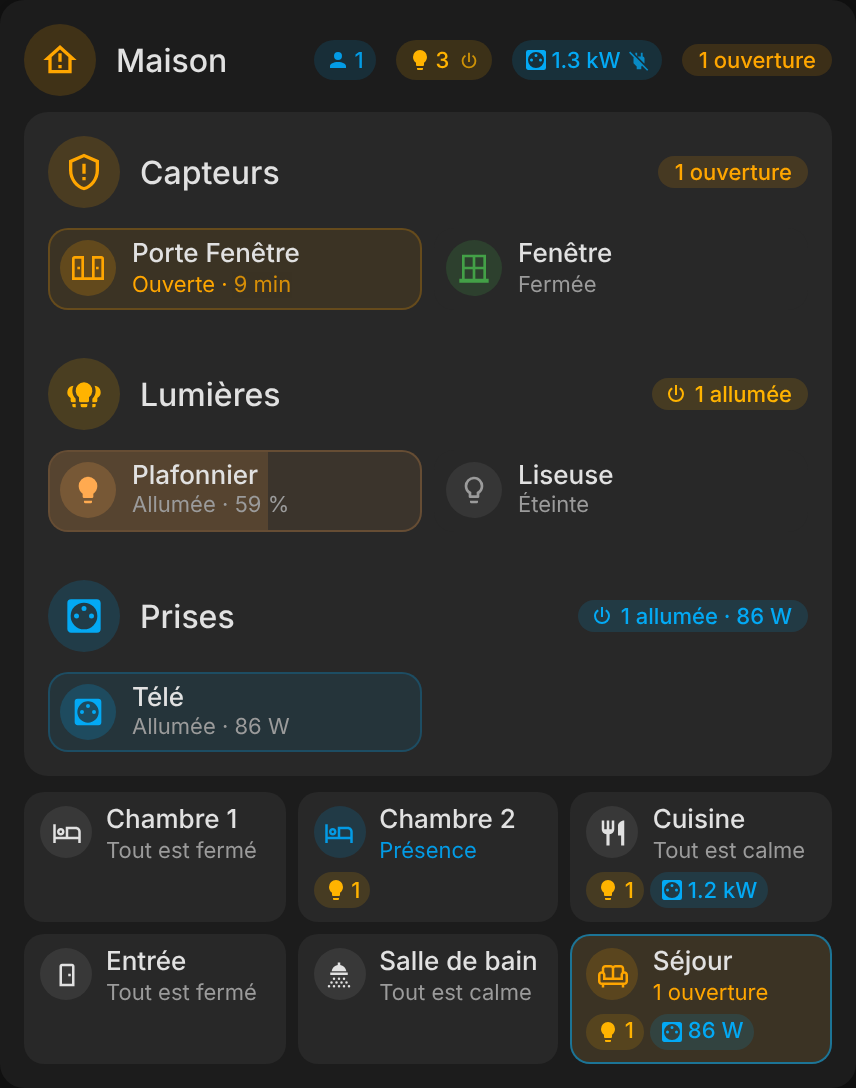
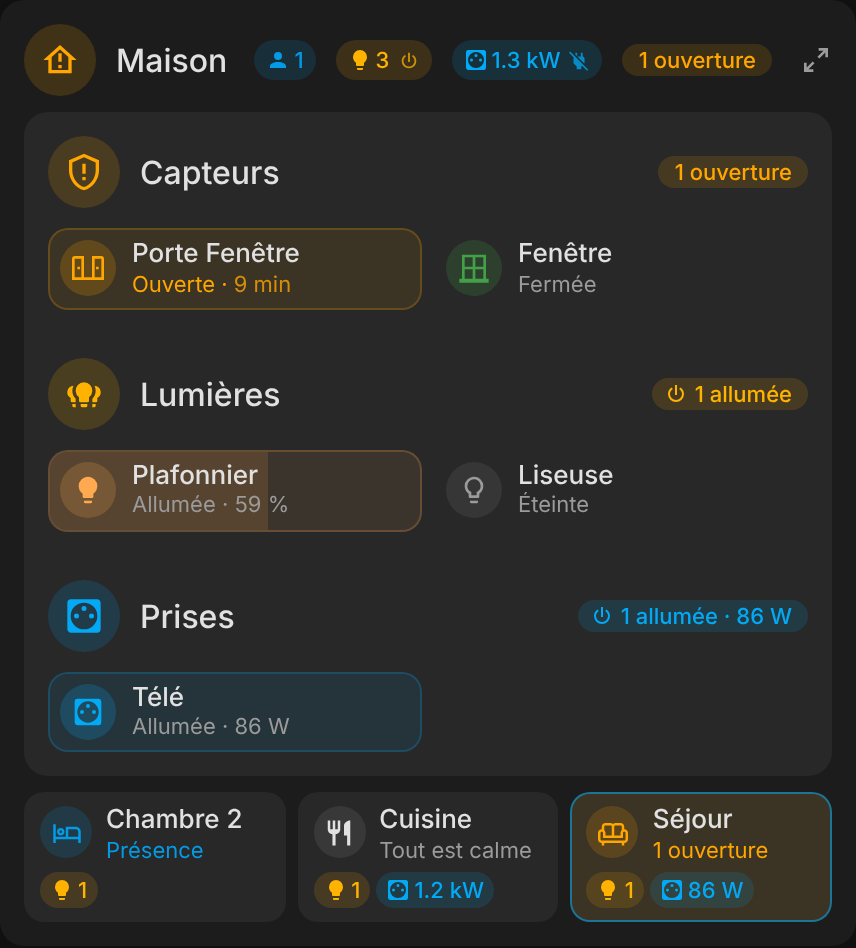
Overviews: rooms needing attention by default, detail button for all (1.12.0) (#14)
## Summary

Both overviews (`room-overview-card`, `room-environment-overview-card`)
now only show the **rooms needing attention**, with a **detail button**
(top right, same icon as the mini cards) to show every room and back.

- Overview: rooms with something open, on or detected; Environment
overview: rooms with a reading out of the comfort range
- `zoom` (default `true`); `zoom: false` shows every room, always, with
no button (also in the visual editors)
- `only_active` (Overview) and `only_alerts` (Environment overview)
removed: the default view does what they did; ignored if left in YAML
- An unfolded room stays visible while it is open; Environment overview
averages always count every room
- Shared: `rcCompact`, `rcZoomButton`, `rcZoomClick`, `RC_ZOOM_STYLES`
in `shared.js`

| Overview: active rooms | Overview: every room |
|---|---|
|
![](https://raw.githubusercontent.com/juju35/ha-room-card/feat/env-overview-zoom/screenshots/overview-active.png)
|
![](https://raw.githubusercontent.com/juju35/ha-room-card/feat/env-overview-zoom/screenshots/overview-all.png)
|

| Environment: rooms to check | Environment: every room |
|---|---|
|
![](https://raw.githubusercontent.com/juju35/ha-room-card/feat/env-overview-zoom/screenshots/environment-overview-check-dark.png)
|
![](https://raw.githubusercontent.com/juju35/ha-room-card/feat/env-overview-zoom/screenshots/environment-overview-all.png)
|

Version **1.12.0**, CHANGELOG and README updated.

## Test plan
[…]

diff --git a/src/room-overview-card.js b/src/room-overview-card.js
@@ -31,8 +31,8 @@ const RO_I18N = {
     ed_columns_helper: "Empty: 3, or 2 on narrow screens",
     ed_presence: "Include presence sensors",
     ed_presence_helper: "Presence and motion sensors, cameras excluded",
-    ed_only_active: "Hide idle rooms",
-    ed_only_active_helper: "Only rooms with something open, on or detected stay visible",
+    ed_zoom: "Detail button",
+    ed_zoom_helper: "Only the rooms with something open, on or detected show; the button shows every room. Off: every room, always",
     ed_all_off_button: "“Turn all lights off” button",
     ed_all_off_button_helper: "Tapping the lights chip of the header turns every light the card counts off",
     ed_plugs_off_button: "“Turn all plugs off” button",
@@ -69,8 +69,8 @@ const RO_I18N = {
     ed_columns_helper: "Vide : 3, ou 2 sur les écrans étroits",
     ed_presence: "Inclure les capteurs de présence",
     ed_presence_helper: "Capteurs de présence et de mouvement, hors caméras",
-    ed_only_active: "Masquer les pièces au repos",
-    ed_only_active_helper: "Seules les pièces avec quelque chose d'ouvert, d'allumé ou de détecté restent affichées",
+    ed_zoom: "Bouton détail",
+    ed_zoom_helper: "Seules les pièces avec quelque chose d'ouvert, d'allumé ou de détecté s'affichent ; le bouton affiche toutes les pièces. Désactivé : toujours toutes les pièces",
     ed_all_off_button: "Bouton « Éteindre toutes les lumières »",
     ed_all_off_button_helper: "Un tap sur la pastille des lumières de l'en-tête éteint toutes les lumières comptées par la carte",
     ed_plugs_off_button: "Bouton « Éteindre toutes les prises »",
@@ -95,7 +95,7 @@ class RoomOverviewCard extends RcCard {
   static i18n = RO_I18N;
   static defaults = {
     presence: true,
-    only_active: false,
+    zoom: true,
     all_off_button: true,
     plugs_off_button: false,
     sort: "name",
@@ -212,7 +212,7 @@ class RoomOverviewCard extends RcCard {
     rcSortRooms(list, c, rank);
     this._total = list.length;
     this._anySensors = list.some((x) => x.sensors.some((e) => !e.leak));
-    if (c.only_active) list = list.filter((x) => rank(x) > 0 || x.id === this._openArea);
+    if (rcCompact(this)) list = list.filter((x) => rank(x) > 0 || x.id === this._openArea);
     return list;
   }
 
@@ -235,7 +235,7 @@ class RoomOverviewCard extends RcCard {
     const list = shown
       ? [...shown.sensors, ...shown.presence, ...shown.lights, ...shown.plugs].map((e) => [e.id, e.st.state, e.st.attributes.friendly_name])
       : null;
-    if (!this._changed([this._openArea, parts, list])) return;
+    if (!this._changed([this._openArea, this._zoomed, parts, list])) return;
 
     if (!this.shadowRoot.querySelector("ha-card")) {
       this.shadowRoot.innerHTML = `
@@ -256,6 +256,7 @@ class RoomOverviewCard extends RcCard {
       }
       const head = this.shadowRoot.querySelector(".head");
       head.addEventListener("click", (ev) => {
+        if (rcZoomClick(this, ev)) return;
         const button = ev.target.closest(".chip.action");
         if (!button || this._justClosed()) return;
         ev.stopPropagation();
@@ -326,7 +327,8 @@ class RoomOverviewCard extends RcCard {
             : chip("plug", "mdi:power-socket-fr", this._t("plugs_on"), plugText)
           : ""
       }
-      <div class="pill">${rcEsc(status)}</div>`;
+      <div class="pill">${rcEsc(status)}</div>
+      ${rcZoomButton(this)}`;
 
     this._roomGrid(card.querySelector(".grid"), rooms, (x) => {
       const s = this._roomState(x);
@@ -489,7 +491,7 @@ class RoomOverviewCard extends RcCard {
     }
   }
 
-  static styles = `
+  static styles = `${RC_ZOOM_STYLES}
       ha-card { container-type: inline-size; position: relative; }
       ha-card.lvl-ok    { --c: var(--rc-ok); }
       ha-card.lvl-warn  { --c: var(--rc-warn); }
@@ -592,7 +594,7 @@ class RoomOverviewCard extends RcCard {
 // Entities the card counts in the rooms it shows, plus the ones already excluded.
 const roExcludeField = (hass, config) => {
   if (!hass) return [];
-  const rooms = rcProbe(RoomOverviewCard, hass, { ...config, exclude: [], only_active: false })._collect();
+  const rooms = rcProbe(RoomOverviewCard, hass, { ...config, exclude: [], zoom: false })._collect();
   const ids = rooms.flatMap((x) => [...x.sensors, ...x.presence, ...x.lights, ...x.plugs].map((e) => e.id));
   for (const id of config?.exclude || []) if (!ids.includes(id)) ids.push(id);
   return rcEntitiesField("exclude", ids);
@@ -600,11 +602,11 @@ const roExcludeField = (hass, config) => {
 
 const RoomOverviewCardEditor = rcEditor({
   card: RoomOverviewCard,
-  helpers: ["title", "columns", "presence", "only_active", "all_off_button", "plugs_off_button", "exclude"],
+  helpers: ["title", "columns", "presence", "zoom", "all_off_button", "plugs_off_button", "exclude"],
   schema: (lang, hass, config) => [
     ...rcOverviewFields(RO_I18N, lang),
     { name: "presence", selector: { boolean: {} } },
-    { name: "only_active", selector: { boolean: {} } },
+    { name: "zoom", selector: { boolean: {} } },
     { name: "all_off_button", selector: { boolean: {} } },
     { name: "plugs_off_button", selector: { boolean: {} } },
     {
@@ -615,7 +617,7 @@ const RoomOverviewCardEditor = rcEditor({
           multiple: true,
           mode: "dropdown",
           options: hass
-            ? rcProbe(RoomOverviewCard, hass, { ...config, exclude_areas: [], only_active: false })
+            ? rcProbe(RoomOverviewCard, hass, { ...config, exclude_areas: [], zoom: false })
                 ._collect()
                 .map((x) => ({ value: x.id, label: x.name }))
             : [],

diff --git a/src/room-environment-card.js b/src/room-environment-card.js
@@ -466,8 +466,8 @@ const REO_I18N = {
     averages: "Average temperature and humidity",
     ed_title_helper: "Leave empty for “Indoor climate”",
     ed_columns_helper: "Empty: 3, or 2 on narrow screens",
-    ed_only_alerts: "Hide comfortable rooms",
-    ed_only_alerts_helper: "Only the rooms with a reading outside the comfort range stay visible",
+    ed_zoom: "Detail button",
+    ed_zoom_helper: "Only the rooms with a reading outside the comfort range show; the button shows every room. Off: every room, always",
     ed_sort: "Sort",
     ed_sort_name: "By name",
     ed_sort_state: "Rooms needing a look first",
@@ -484,8 +484,8 @@ const REO_I18N = {
     averages: "Température et humidité moyennes",
     ed_title_helper: "Laisser vide pour « Climat intérieur »",
     ed_columns_helper: "Vide : 3, ou 2 sur les écrans étroits",
-    ed_only_alerts: "Masquer les pièces confortables",
-    ed_only_alerts_helper: "Seules les pièces avec une mesure hors de la plage de confort restent affichées",
+    ed_zoom: "Bouton détail",
+    ed_zoom_helper: "Seules les pièces avec une mesure hors de la plage de confort s'affichent ; le bouton affiche toutes les pièces. Désactivé : toujours toutes les pièces",
     ed_sort: "Tri",
     ed_sort_name: "Par nom",
     ed_sort_state: "Pièces à surveiller en premier",
@@ -501,7 +501,7 @@ class RoomEnvironmentOverviewCard extends RoomEnvironmentCard {
   static tag = "room-environment-overview-card";
   static i18n = REO_I18N;
   static needsArea = false;
-  static defaults = { only_alerts: false, sort: "name", exclude_areas: [], exclude: [], rooms: [] };
+  static defaults = { zoom: true, sort: "name", exclude_areas: [], exclude: [], rooms: [] };
 
   static getStubConfig() {
     return {};
@@ -567,7 +567,8 @@ class RoomEnvironmentOverviewCard extends RoomEnvironmentCard {
     }
     rcSortRooms(rooms, c, (x) => x.rank);
     this._total = rooms.length;
-    return c.only_alerts ? rooms.filter((x) => x.rank >= RE_RANK.warn || x.id === this._openArea) : rooms;
+    this._everyRoom = rooms; // the header averages count every room, shown or not
+    return rcCompact(this) ? rooms.filter((x) => x.rank >= RE_RANK.warn || x.id === this._openArea) : rooms;
   }
 
   // Mean of the rooms' readings of `kind` (each room counting once), formatted with `digits`.
@@ -587,7 +588,7 @@ class RoomEnvironmentOverviewCard extends RoomEnvironmentCard {
   _draw(rooms) {
     const c = this._config;
     const parts = rooms.map((x) => [x.id, x.name, x.icon, x.status, x.items.map((i) => [i.id, i.state, i.sev, i.cold])]);
-    if (!this._changed([this._openArea, parts])) return;
+    if (!this._changed([this._openArea, this._zoomed, parts])) return;
 
     if (!this.shadowRoot.querySelector("ha-card")) {
       this.shadowRoot.innerHTML = `
@@ -597,9 +598,10 @@ class RoomEnvironmentOverviewCard extends RoomEnvironmentCard {
         const tile = ev.target.closest(".room");
         if (tile) this._tap(tile.dataset.area);
       });
+      this.shadowRoot.querySelector(".head").addEventListener("click", (ev) => rcZoomClick(this, ev));
     }
 
-    const all = this._total ? rooms : [];
+    const all = this._everyRoom || [];
     const worst = this._worst(rooms.map((x) => x.worst).filter(Boolean));
     const level = worst ? (worst.cold || worst.sev === "info" ? "cold" : worst.sev) : "ok";
     const toCheck = rooms.filter((x) => x.rank >= RE_RANK.warn).length;
@@ -624,7 +626,8 @@ class RoomEnvironmentOverviewCard extends RoomEnvironmentCard {
       <div class="badge"><ha-icon icon="${this._headIcon(worst)}"></ha-icon></div>
       <div class="title">${rcEsc(c.title || this._t("title"))}</div>
       ${avg}
-      <div class="pill">${rcEsc(status)}</div>`;
+      <div class="pill">${rcEsc(status)}</div>
+      ${rcZoomButton(this)}`;
 
     this._roomGrid(card.querySelector(".grid"), rooms, (x) => {
       const chips = x.items
@@ -689,7 +692,7 @@ class RoomEnvironmentOverviewCard extends RoomEnvironmentCard {
     this._detail = el;
   }
 
-  static styles = `
+  static styles = `${RC_ZOOM_STYLES}
     ha-card { container-type: inline-size; }
     ha-card.lvl-ok    { --c: var(--rc-ok); }
     ha-card.lvl-cold  { --c: var(--rc-info); }
@@ -749,15 +752,15 @@ class RoomEnvironmentOverviewCard extends RoomEnvironmentCard {
 
 const RoomEnvironmentOverviewCardEditor = rcEditor({
   card: RoomEnvironmentOverviewCard,
-  helpers: ["title", "columns", "only_alerts", "exclude"],
+  helpers: ["title", "columns", "zoom", "exclude"],
   schema: (lang, hass, config) => {
-    const probe = hass && rcProbe(RoomEnvironmentOverviewCard, hass, { ...config, exclude_areas: [], exclude: [], only_alerts: false });
+    const probe = hass && rcProbe(RoomEnvironmentOverviewCard, hass, { ...config, exclude_areas: [], exclude: [], zoom: false });
     const rooms = probe ? probe._collect() : [];
     const ids = rooms.flatMap((x) => x.items.map((i) => i.id));
     for (const id of config?.exclude || []) if (!ids.includes(id)) ids.push(id);
     return [
       ...rcOverviewFields(REO_I18N, lang),
-      ...rcBooleans("only_alerts"),
+      ...rcBooleans("zoom"),
       {
         name: "exclude_areas",
         selector: { select: { multiple: true, mode: "dropdown", options: rooms.map((x) => ({ value: x.id, label: x.name })) } },

diff --git a/src/shared.js b/src/shared.js
@@ -146,6 +146,29 @@ const rcSortRooms = (list, config, rank) => {
   });
 };
 
+// The overviews only show the rooms needing a look until their detail button (`zoom`, on by default) is pressed;
+// `zoom: false` shows every room, with no button.
+const rcCompact = (card) => card._config.zoom !== false && !card._zoomed;
+
+// The detail button of an overview header, at its end.
+const rcZoomButton = (card) =>
+  card._config.zoom === false
+    ? ""
+    : `<button class="zoom" title="${rcEsc(card._t(card._zoomed ? "rooms_check" : "rooms_all"))}"><ha-icon icon="${
+        card._zoomed ? "mdi:arrow-collapse" : "mdi:arrow-expand"
+      }"></ha-icon></button>`;
+
+// A click on the detail button: every room, or back to the rooms needing a look. True when handled.
+const rcZoomClick = (card, ev) => {
+  if (!ev.target.closest?.(".zoom")) return false;
+  ev.stopPropagation();
+  card._zoomed = !card._zoomed;
+  card._sig = null;
+  card._render();
+  if (ev.detail === 0) card.shadowRoot.querySelector(".zoom")?.focus();
+  return true;
+};
+
 // Editor fields shared by the overviews: title, columns and sort.
 const rcOverviewFields = (i18n, lang) => [
   { name: "title", selector: { text: {} } },
@@ -185,6 +208,8 @@ const RC_I18N = {
     zoom_out: "Back to the compact view",
     ed_zoom: "Zoom button",
     ed_zoom_helper: "Switches the mini card to the full card and back",
+    rooms_all: "Show every room",
+    rooms_check: "Only the rooms needing a look",
   },
   fr: {
     all_closed: "Tout est fermé",
@@ -207,6 +232,8 @@ const RC_I18N = {
     zoom_out: "Revenir à la vue compacte",
     ed_zoom: "Bouton zoom",
     ed_zoom_helper: "Bascule la mini-carte en carte complète, et inversement",
+    rooms_all: "Afficher toutes les pièces",
+    rooms_check: "Seulement les pièces à surveiller",
   },
 };
 
@@ -837,12 +864,16 @@ const RC_BASE_STYLES = `
 `;
 
 // Mini cards: layout, chips and zoom button. A chip is plain (icon and text) until it needs a look: then a tinted pill.
-const RC_MINI_STYLES = `
+// The zoom / detail button of the mini cards and the overviews.
+const RC_ZOOM_STYLES = `
   .zoom { all: unset; flex: none; cursor: pointer; width: 24px; height: 24px; margin: -4px -4px -4px 0; border-radius: 50%;
           display: grid; place-items: center; color: var(--secondary-text-color); }
   .zoom ha-icon { --mdc-icon-size: 16px; }
   .zoom:hover { background: color-mix(in srgb, var(--rc-idle) 16%, transparent); color: var(--primary-text-color); }
   .zoom:focus-visible { outline: 2px solid var(--primary-color); outline-offset: 1px; }
+`;
+
+const RC_MINI_STYLES = `${RC_ZOOM_STYLES}
   ha-card:has(.mini) { padding: 8px 10px; }
   .mini { display: flex; align-items: center; gap: 10px; }
   .mini .badge { width: 32px; height: 32px; }

diff --git a/README.md b/README.md
@@ -40,7 +40,7 @@ All the cards share the same look (header with a status pill, compact tiles), a 
 - **Tap** a room to unfold its details at the top of the card: the Sensors, Lights and Plugs cards of that room; tap it again or anywhere else to fold it back
 - Automatic discovery: every area with door, window, leak or presence sensors, lights or plugs becomes a room, with an icon picked from its name
 - Same rules as the room cards: camera detections, configuration entities and light groups are skipped, light switches count as lights
-- Show only the rooms with something open, on or detected (`only_active`), or list them first (`sort: state`)
+- Only the rooms with something open, on or detected show; the **detail** button (top right) shows every room, and back (`zoom: false`: every room, always, no button); `sort: state` lists the rooms needing attention first
 
 ### Sensors
 
@@ -125,7 +125,7 @@ All the cards share the same look (header with a status pill, compact tiles), a 
 - On each tile: temperature, humidity and CO₂, plus any other reading outside the comfort range (PM2.5, noise…); same means and thresholds as the Environment card
 - Header with the number of rooms to check and the home's average temperature and humidity
 - **Tap** a room to unfold its Environment card at the top of the card; tap it again or anywhere else to fold it back
-- Show only the rooms needing a look (`only_alerts`), or list them first (`sort: state`); room order, names and icons with `rooms`, like the [Overview](#overview)
+- Only the rooms needing a look show; the **detail** button (top right) shows every room, and back (`zoom: false`: every room, always, no button); `sort: state` lists them first; room order, names and icons with `rooms`, like the [Overview](#overview)
 
 ## Prerequisites
 
@@ -200,7 +200,7 @@ title: Home
 columns: 3
 sort: name
 presence: true
-only_active: false
+zoom: true
 all_off_button: true
 plugs_off_button: false
 exclude_areas:
@@ -225,7 +225,7 @@ rooms:
 | `columns` | ❌ | `3` | Number of room columns (1–6); when empty, 3, or 2 on narrow screens |
 | `sort` | ❌ | `name` | `name`, or `state` to list the rooms needing attention first (leak, open, presence, something on) |
 | `presence` | ❌ | `true` | Include the presence and motion sensors (camera detections are always left out) |
-| `only_active` | ❌ | `false` | Show only the rooms with something open, on or detected |
+| `zoom` | ❌ | `true` | Show only the rooms with something open, on or detected, with a detail button showing every room; `false` shows every room, always |
 | `all_off_button` | ❌ | `true` | Tapping the lights chip of the header turns every light the card counts off |
 | `plugs_off_button` | ❌ | `false` | Tapping the plugs chip of the header opens a confirmation listing every plug the card counts that is on, and turns them off on OK (Cancel, Escape or a tap outside do nothing); the Plugs card of the room details gets its turn-everything-off pill too. Off by default: a plug may feed a camera or a network switch, leave those out with `exclude` |
 | `exclude_areas` | ❌ | — | Rooms left out; the visual editor only offers the rooms the card finds |
@@ -488,7 +488,7 @@ type: custom:room-environment-overview-card
 title: Indoor climate
 columns: 3
 sort: state
-only_alerts: false
+zoom: true
 thresholds:
   co2: [800, 1200]
 exclude_areas:
@@ -513,7 +513,7 @@ rooms:
 | `title` | ❌ | `Indoor climate` | Card title |
 | `columns` | ❌ | `3` | Number of room columns (1–6); when empty, 3, or 2 on narrow screens |
 | `sort` | ❌ | `name` | `name`, or `state` to list the rooms needing a look first |
-| `only_alerts` | ❌ | `false` | Show only the rooms with a reading outside the comfort range |
+| `zoom` | ❌ | `true` | Show only the rooms with a reading outside the comfort range, with a detail button showing every room; `false` shows every room, always |
 | `thresholds` | ❌ | See [Thresholds](#thresholds) | Comfort limits per kind, also used by the unfolded room |
 | `exclude_areas` | ❌ | — | Rooms left out; the visual editor only offers the rooms the card finds |
 | `exclude` | ❌ | — | Sensors left out of the tiles, the averages and the room details |
@@ -524,10 +524,10 @@ rooms:
 
 ### Overview
 
-| Every room | Room details |
-|---|---|
-| ![Every room](screenshots/overview-all.png) | ![Room details](screenshots/overview-details.png) |
-| ![Every room dark](screenshots/overview-all-dark.png) | ![Room details dark](screenshots/overview-details-dark.png) |
+| Active rooms (default) | Every room (detail button) | Room details |
+|---|---|---|
+| ![Active rooms](screenshots/overview-active.png) | ![Every room](screenshots/overview-all.png) | ![Room details](screenshots/overview-details.png) |
+| ![Active rooms dark](screenshots/overview-active-dark.png) | ![Every room dark](screenshots/overview-all-dark.png) | ![Room details dark](screenshots/overview-details-dark.png) |
 
 ### Sensors
 
@@ -571,10 +571,10 @@ rooms:
 
 ### Environment overview
 
-| Every room | Room details |
-|---|---|
-| ![Every room](screenshots/environment-overview-all.png) | ![Room details](screenshots/environment-overview-details.png) |
-| ![Every room dark](screenshots/environment-overview-all-dark.png) | ![Room details dark](screenshots/environment-overview-details-dark.png) |
+| Rooms to check (default) | Every room (detail button) | Room details |
+|---|---|---|
+| ![Rooms to check](screenshots/environment-overview-check.png) | ![Every room](screenshots/environment-overview-all.png) | ![Room details](screenshots/environment-overview-details.png) |
+| ![Rooms to check dark](screenshots/environment-overview-check-dark.png) | ![Every room dark](screenshots/environment-overview-all-dark.png) | ![Room details dark](screenshots/environment-overview-details-dark.png) |
 
 ## How it works
 

diff --git a/CHANGELOG.md b/CHANGELOG.md
@@ -1,5 +1,12 @@
 # Changelog
 
+## 1.12.0
+
+### Changes
+- Overview and Environment overview: only the rooms needing attention show — something open, on or detected on the Overview, a reading out of the comfort range on the Environment overview. A **detail** button at the top right shows every room, and back. `zoom: false` shows every room, always, with no button.
+- The `only_active` (Overview) and `only_alerts` (Environment overview) options are gone: the default view does what they did; left in YAML, they are ignored.
+- Environment overview: the header averages always count every room, even the ones not shown.
+
 ## 1.11.0
 
 ### Changes
